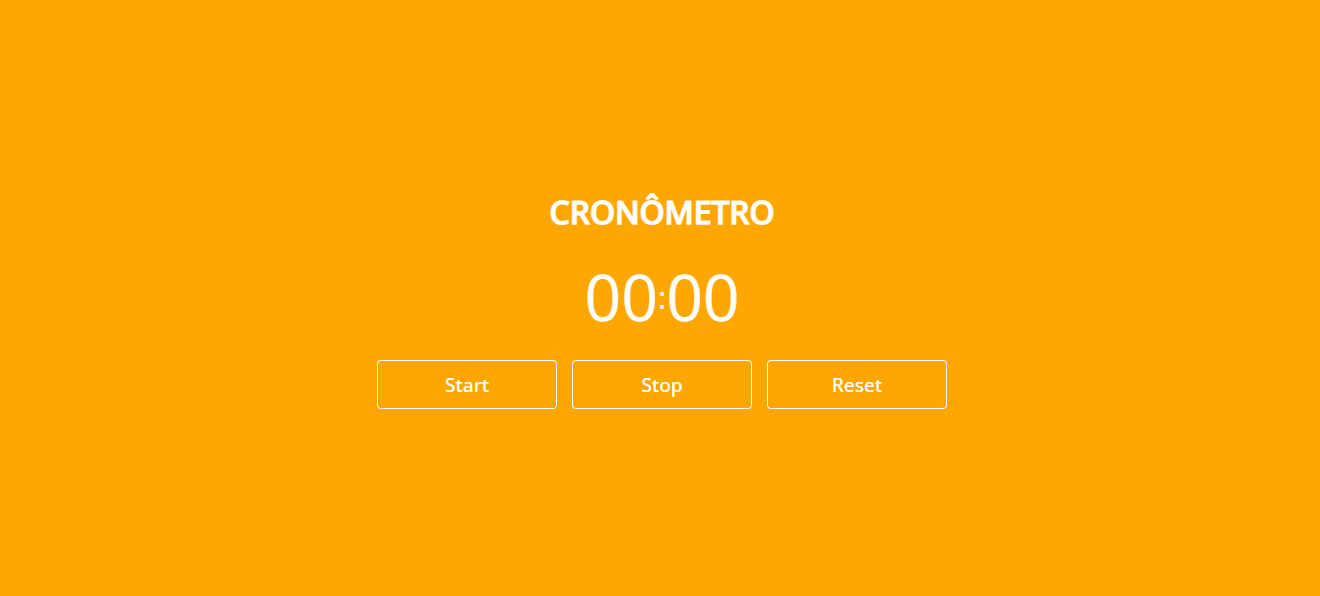
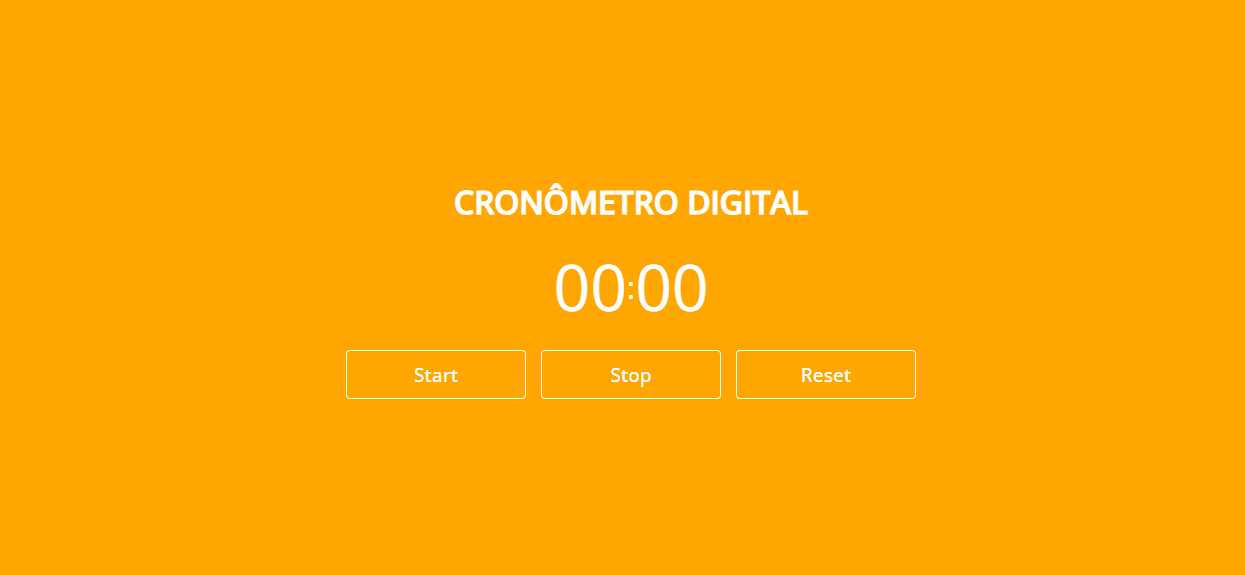
1 binaries uploaded

Changed region(s): [[0.2747, 0.5913, 0.7325, 0.7096], [0.4273, 0.4435, 0.5799, 0.5617], [0.3663, 0.3252, 0.641, 0.3843]]

diff --git a/index.html b/index.html
@@ -1,7 +1,7 @@
 <!DOCTYPE html>
 <html lang="pt-br">
   <head>
-    <title>Home</title>
+    <title>Cronômetro Digital</title>
     <meta charset="UTF-8" />
     <meta name="viewport" content="width=device-width" />
     <link rel="stylesheet" href="styles.css" />
@@ -9,7 +9,7 @@
   </head>
   <body>
     <main class="container">
-      <h2>Cronômetro</h2>
+      <h2>Cronômetro Digital</h2>
       <p><span id="minutes">00</span>:<span id="seconds">00</span></p>
       <div class="buttons">
         <button id="start">Start</button>

diff --git a/styles.css b/styles.css
@@ -21,6 +21,7 @@ body {
   gap: 20px;
 }
 h2 {
+  text-align: center;
   color: #fff;
   font-size: 2rem;
   text-transform: uppercase;

diff --git a/README.md b/README.md
@@ -1,3 +1,18 @@
-# web-cronometro
+<h1 align="center">Cronômetro Digital</h1>
 
-[Edit on StackBlitz ⚡](https://stackblitz.com/edit/web-platform-jzcoc3)
+<div align="center" id="top">
+  <img src="./img/cronometro-design.png" alt="Cronômetro"/>
+
+</div>
+
+## 📁 Sobre o Projeto
+
+Projto onde criei um cronômetro digital usando HTML, CSS e JavaScript.
+
+##
+
+## 🚀 Tecnologias Utilizadas
+
+- HTML
+- CSS
+- JavaScript
